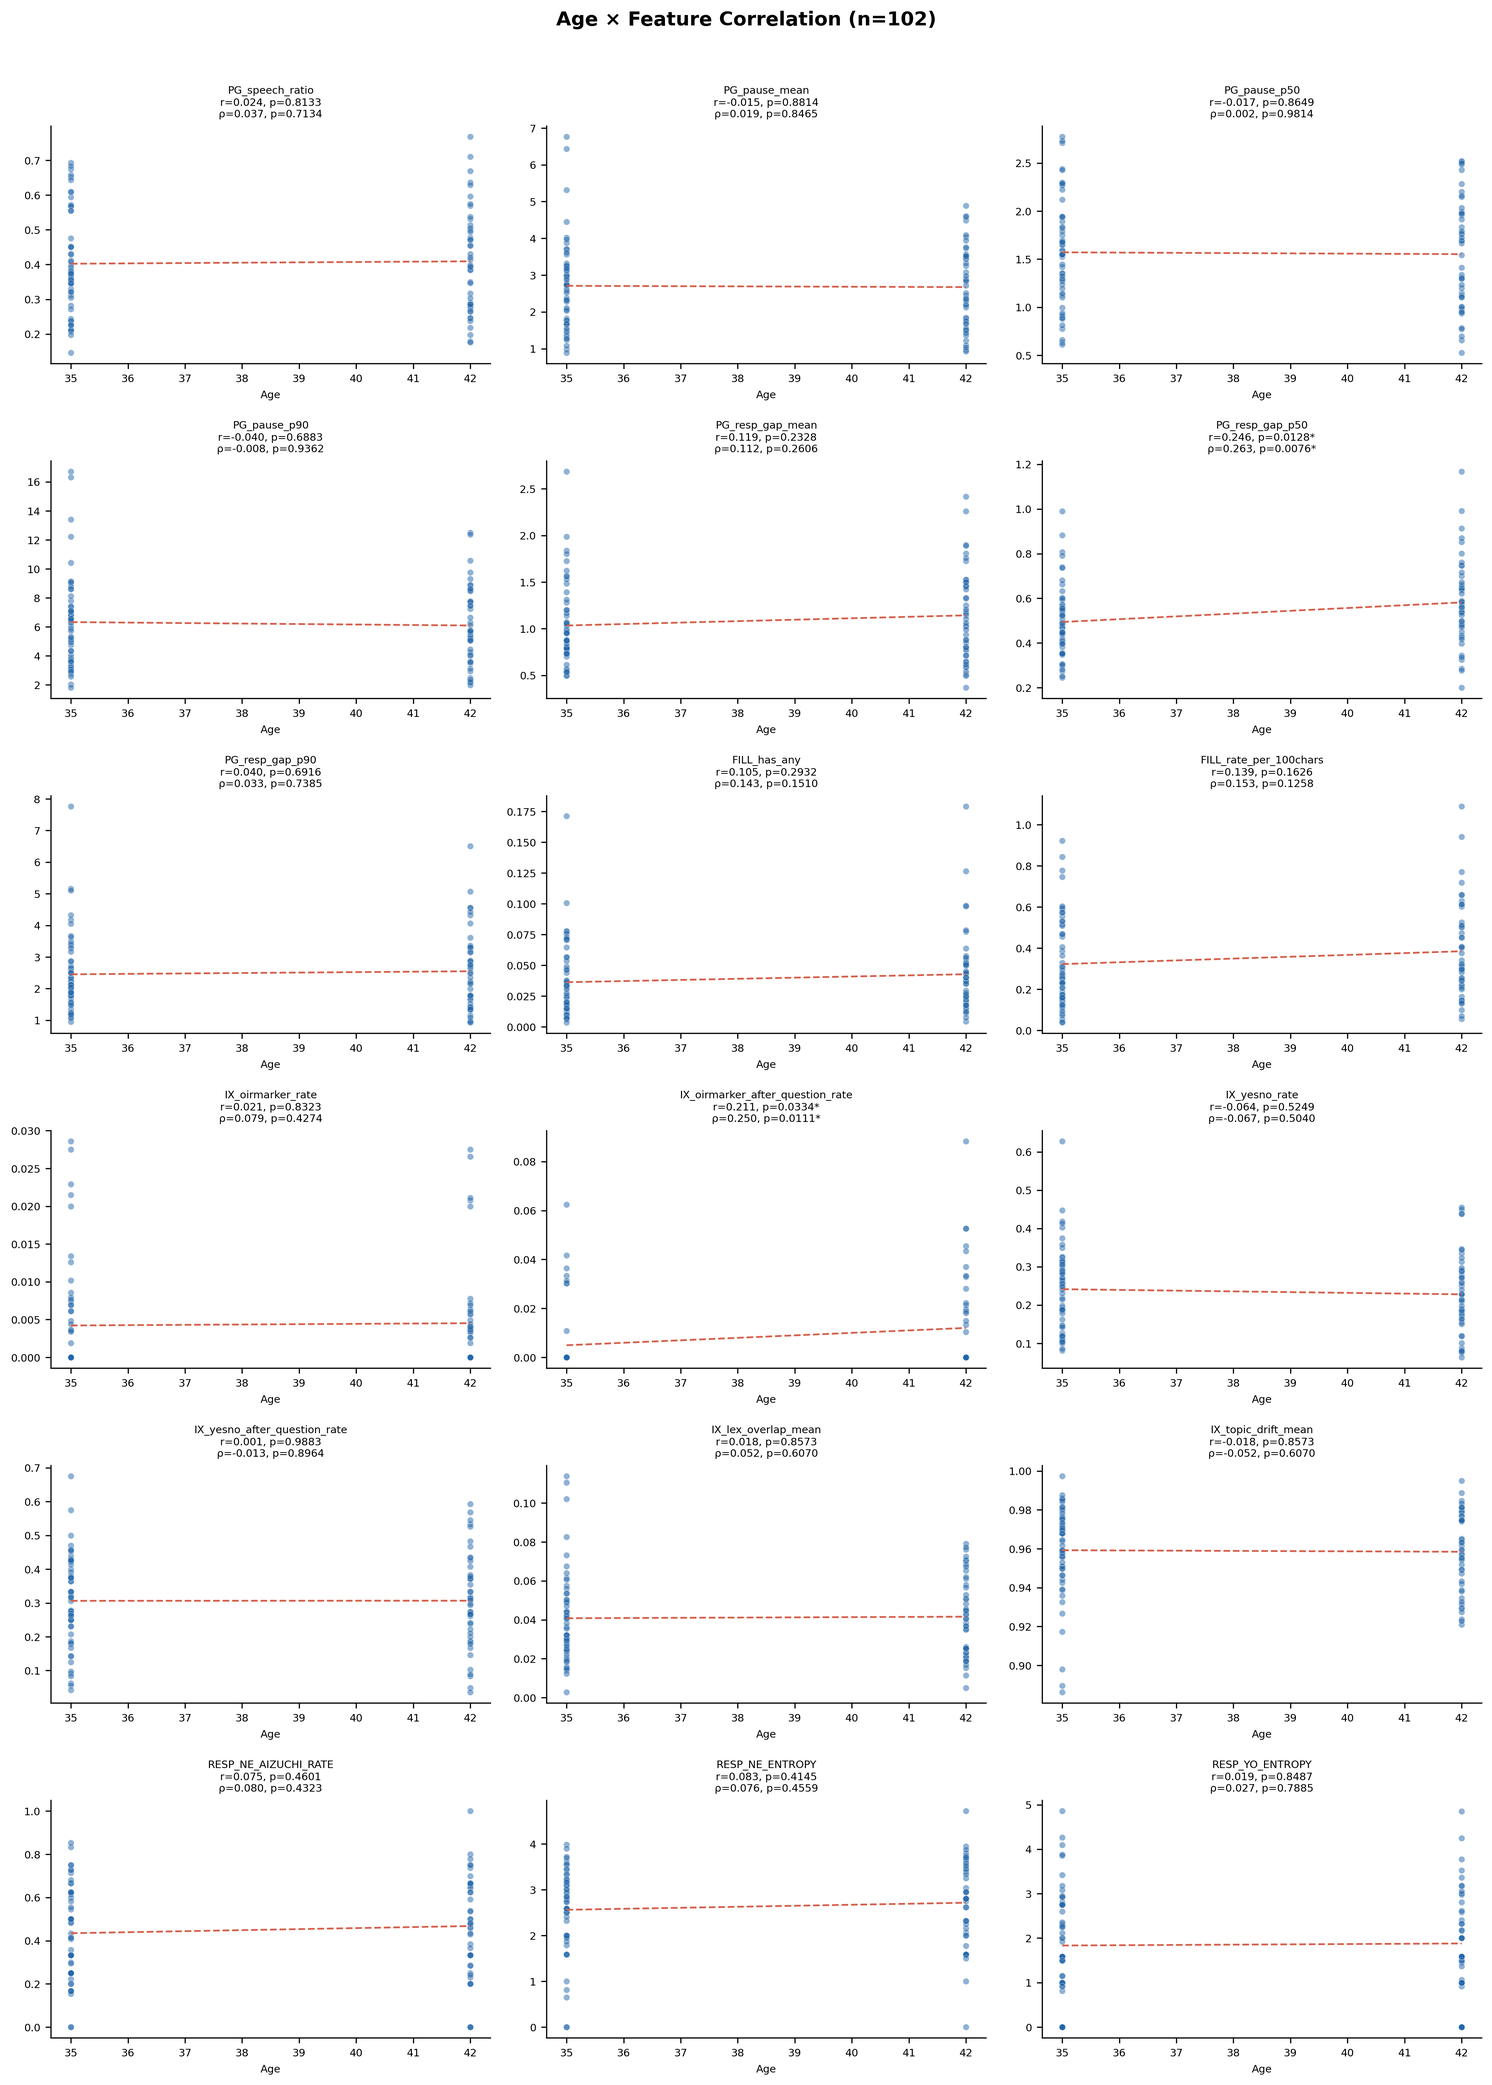
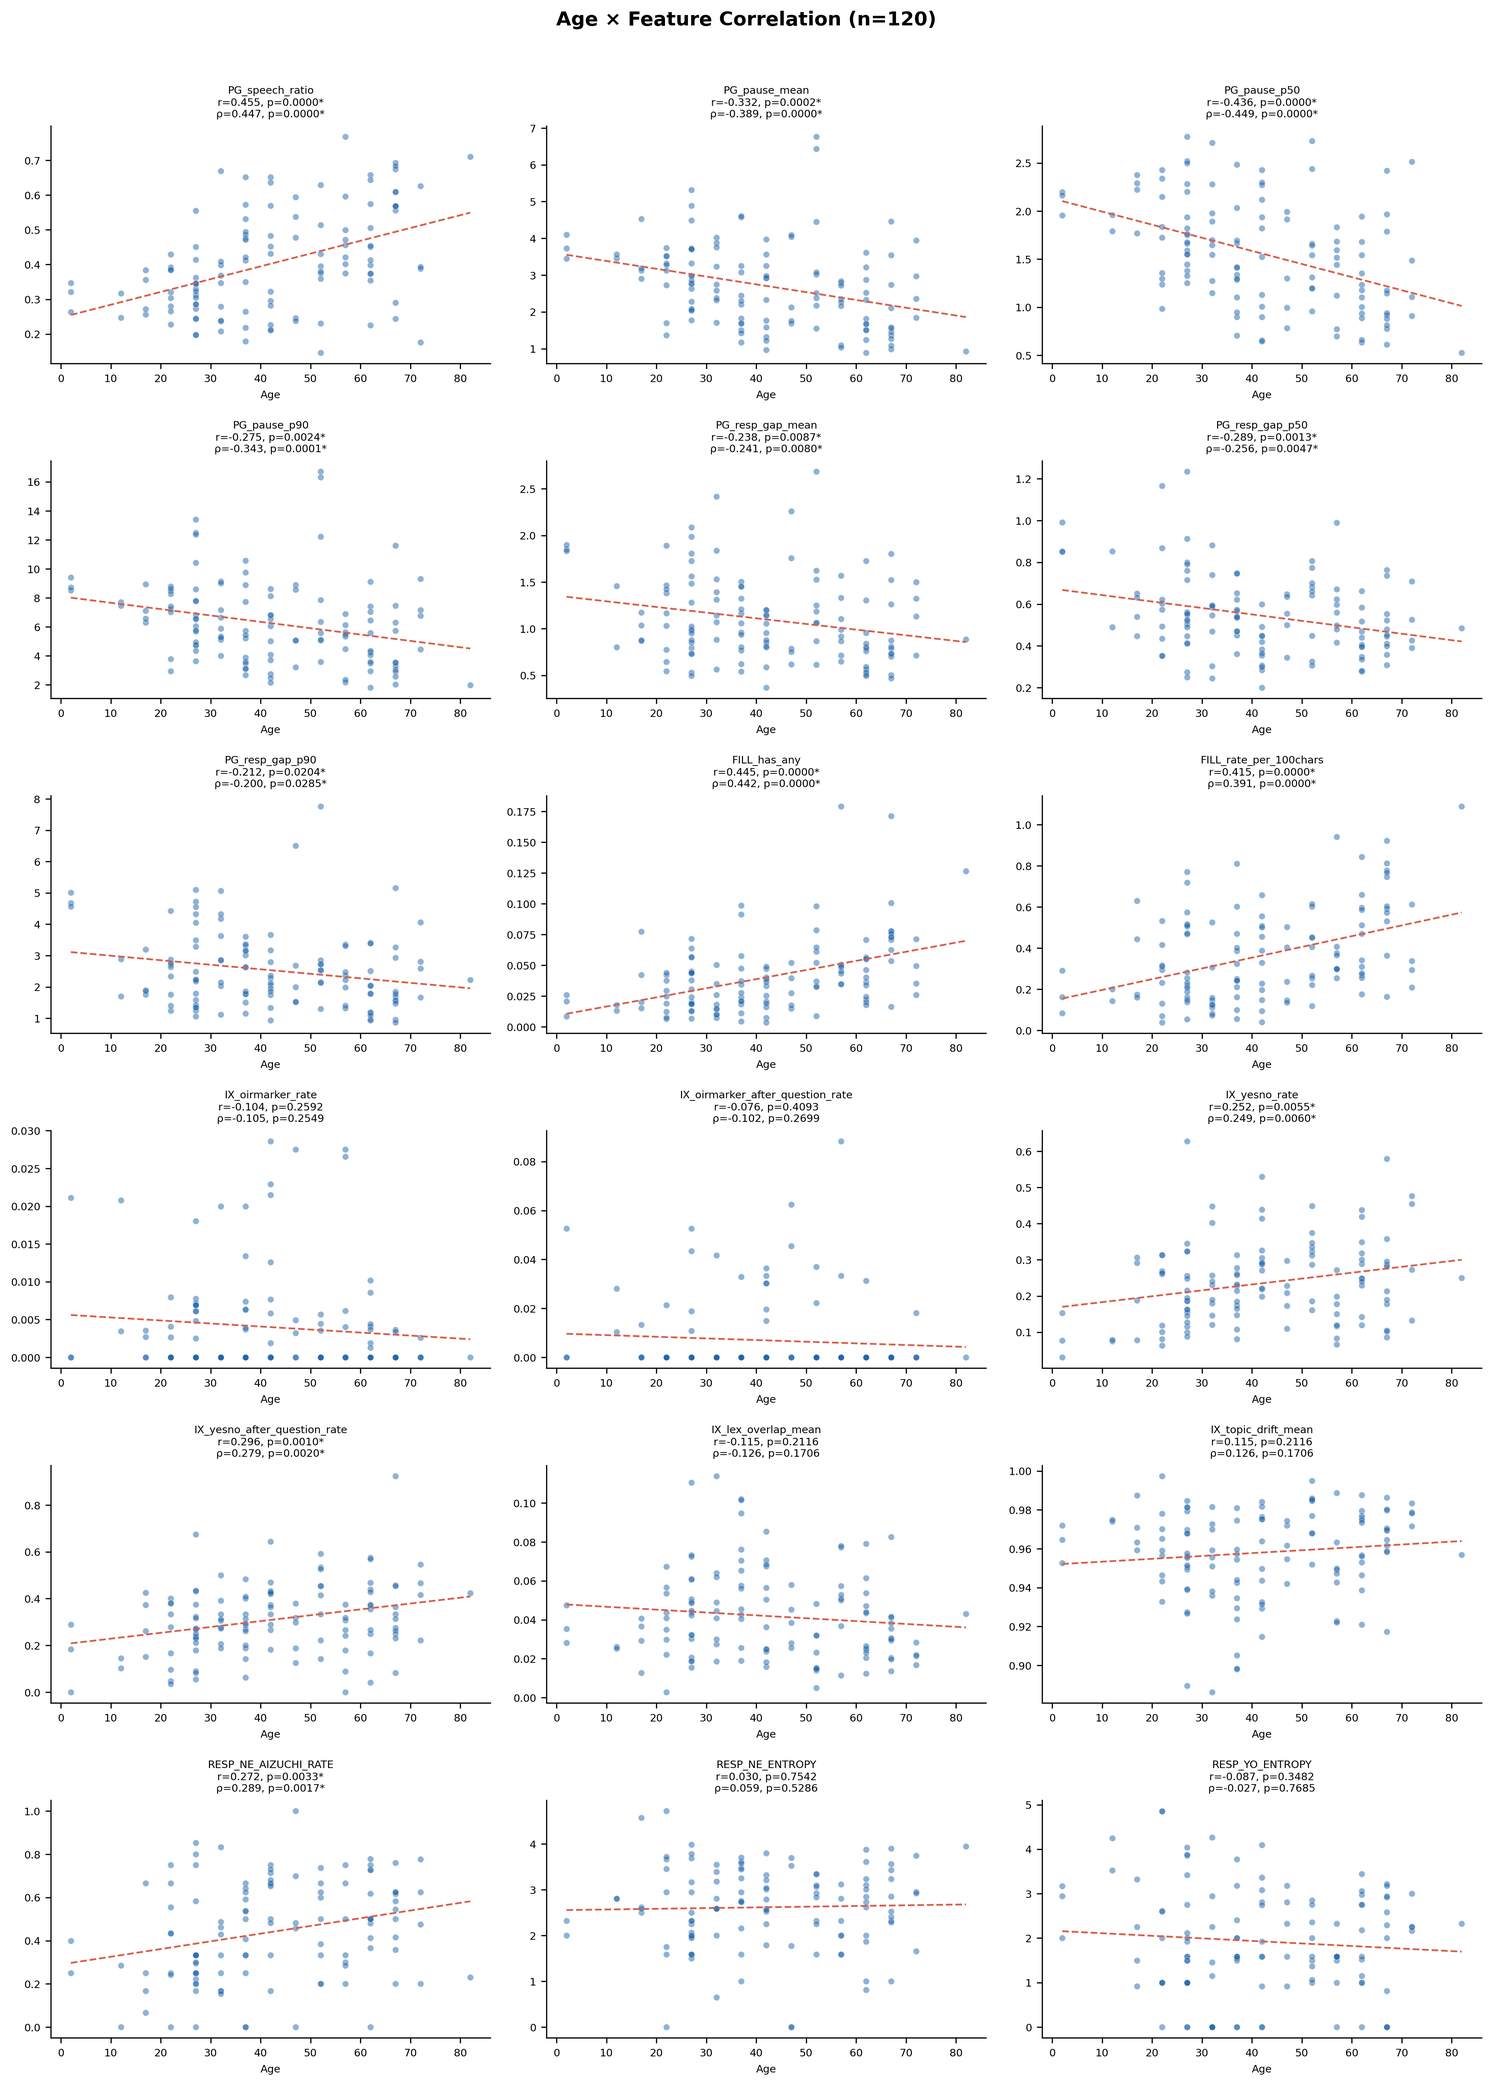
feat: CEJC話者メタデータ紐付け + メタデータ図表のマージキー修正
- scripts/cejc/build_cejc_speaker_meta.py: S3上のCEJCメタ情報
  (話者.csv + 話者・会話対応表.csv) からN=120全件の話者属性
  (性別・年齢・出身地・居住地・職業) を紐付けてTSVを生成
- scripts/paper_figs/gen_paper_figs_v2.py: メタデータマージキーを
  speaker_id単独 → (conversation_id, speaker_id) 複合キーに修正
  (旧: 120→5320行に膨張するバグ)
- reports/paper_figs_v2/: 修正後の図表を再生成
  - fig_metadata_gender.png: 性別×特徴量箱ひげ図 (7特徴量で有意差)
  - fig_metadata_age.png: 年齢×特徴量散布図 (12特徴量で有意相関)
  - tab_metadata_tests.tex: 検定結果LaTeXテーブル
- README.md: メタデータビルドスクリプト・図表の記述を追加
- docs/homework/ncnp_review_v2.md: 性別分析結果を反映、
  「性別情報利用不可」の記述を全箇所修正
- .gitignore: scripts/cejc/ をホワイトリストに追加

diff --git a/scripts/cejc/build_cejc_speaker_meta.py b/scripts/cejc/build_cejc_speaker_meta.py
@@ -1,0 +1,169 @@
+#!/usr/bin/env python3
+# -*- coding: utf-8 -*-
+"""
+CEJC話者メタデータビルダー
+
+S3上のCEJCメタ情報（話者.csv + 話者・会話対応表.csv）と
+N=120特徴量parquetを紐付けて、gen_paper_figs_v2.py の --metadata_tsv に
+渡せる形式のTSVを生成する。
+
+紐付けロジック:
+  1. 話者・会話対応表.csv: (会話ID, 話者ID, 話者ラベル)
+     話者ラベル "IC01_玲子" → prefix "IC01" を抽出
+  2. features parquet: (conversation_id, speaker_id)
+     speaker_id = "IC01" 等の会話内ラベル
+  3. JOIN: (conversation_id, speaker_id) = (会話ID, prefix) → 話者ID
+  4. 話者.csv: 話者ID → 年齢, 性別, 出身地, 居住地, 職業 等
+
+出力TSV カラム:
+  conversation_id, speaker_id, cejc_person_id, gender, age_band,
+  age_mid, birthplace, residence, occupation, relationship
+
+Usage:
+  python scripts/cejc/build_cejc_speaker_meta.py \
+    --features_parquet artifacts/analysis/features_min/features_cejc_home2_hq1.parquet \
+    --speaker_csv /tmp/cejc_speaker.csv \
+    --mapping_csv /tmp/cejc_speaker_conversation.csv \
+    --out artifacts/analysis/cejc_speaker_metadata.tsv
+"""
+
+import argparse
+import re
+import sys
+from pathlib import Path
+
+import pandas as pd
+
+
+# ---------------------------------------------------------------------------
+# 年齢バンド → 中央値 変換
+# ---------------------------------------------------------------------------
+AGE_BAND_PATTERN = re.compile(r"(\d+)-(\d+)")
+
+
+def age_band_to_midpoint(band: str) -> float | None:
+    """'40-44歳' → 42.0"""
+    if pd.isna(band):
+        return None
+    m = AGE_BAND_PATTERN.search(str(band))
+    if m:
+        return (int(m.group(1)) + int(m.group(2))) / 2.0
+    return None
+
+
+# ---------------------------------------------------------------------------
+# メイン
+# ---------------------------------------------------------------------------
+def main() -> None:
+    ap = argparse.ArgumentParser(description="CEJC話者メタデータビルダー")
+    ap.add_argument(
+        "--features_parquet",
+        required=True,
+        help="N=120 特徴量 parquet (conversation_id, speaker_id)",
+    )
+    ap.add_argument(
+        "--speaker_csv",
+        required=True,
+        help="CEJC 話者.csv (CP932)",
+    )
+    ap.add_argument(
+        "--mapping_csv",
+        required=True,
+        help="CEJC 話者・会話対応表.csv (CP932)",
+    )
+    ap.add_argument(
+        "--encoding",
+        default="cp932",
+        help="CSV encoding (default: cp932)",
+    )
+    ap.add_argument(
+        "--out",
+        required=True,
+        help="出力TSVパス",
+    )
+    args = ap.parse_args()
+
+    # --- Load ---
+    feat = pd.read_parquet(args.features_parquet)[["conversation_id", "speaker_id"]]
+    print(f"features: {len(feat)} rows", file=sys.stderr)
+
+    mapping = pd.read_csv(args.mapping_csv, encoding=args.encoding)
+    mapping["speaker_label_prefix"] = mapping["話者ラベル"].str.extract(
+        r"^([A-Z]+\d+[A-Z]?)"
+    )
+    print(f"mapping: {len(mapping)} rows", file=sys.stderr)
+
+    speaker = pd.read_csv(args.speaker_csv, encoding=args.encoding)
+    print(f"speaker: {len(speaker)} rows", file=sys.stderr)
+
+    # --- Step 1: conversation_id + speaker_id → 話者ID ---
+    merged = feat.merge(
+        mapping[["会話ID", "話者ID", "speaker_label_prefix"]],
+        left_on=["conversation_id", "speaker_id"],
+        right_on=["会話ID", "speaker_label_prefix"],
+        how="left",
+    )
+    n_unmatched_step1 = merged["話者ID"].isna().sum()
+    if n_unmatched_step1 > 0:
+        print(
+            f"WARNING: {n_unmatched_step1} rows unmatched at mapping step",
+            file=sys.stderr,
+        )
+
+    # --- Step 2: 話者ID → 属性 ---
+    merged = merged.merge(speaker, on="話者ID", how="left")
+    n_unmatched_step2 = merged["性別"].isna().sum()
+    if n_unmatched_step2 > 0:
+        print(
+            f"WARNING: {n_unmatched_step2} rows unmatched at speaker step",
+            file=sys.stderr,
+        )
+
+    # --- 整形 ---
+    merged["age_mid"] = merged["年齢"].apply(age_band_to_midpoint)
+
+    out = merged[
+        [
+            "conversation_id",
+            "speaker_id",
+            "話者ID",
+            "性別",
+            "年齢",
+            "age_mid",
+            "出身地",
+            "居住地",
+            "職業",
+            "協力者からみた関係性",
+        ]
+    ].rename(
+        columns={
+            "話者ID": "cejc_person_id",
+            "性別": "gender",
+            "年齢": "age_band",
+            "出身地": "birthplace",
+            "居住地": "residence",
+            "職業": "occupation",
+            "協力者からみた関係性": "relationship",
+        }
+    )
+
+    # gender を英語に変換（gen_paper_figs_v2.py が期待する形式）
+    out["gender"] = out["gender"].map({"女性": "F", "男性": "M"})
+
+    # age カラム追加（gen_paper_figs_v2.py が期待する形式）
+    out["age"] = out["age_mid"]
+
+    out_path = Path(args.out)
+    out_path.parent.mkdir(parents=True, exist_ok=True)
+    out.to_csv(out_path, sep="\t", index=False, encoding="utf-8")
+
+    print(f"\nwrote: {out_path}", file=sys.stderr)
+    print(f"rows: {len(out)}", file=sys.stderr)
+    print(f"gender: {out['gender'].value_counts().to_dict()}", file=sys.stderr)
+    print(f"age_mid: min={out['age_mid'].min()}, max={out['age_mid'].max()}, "
+          f"mean={out['age_mid'].mean():.1f}", file=sys.stderr)
+    print(f"birthplace missing: {out['birthplace'].isna().sum()}", file=sys.stderr)
+
+
+if __name__ == "__main__":
+    main()

diff --git a/reports/paper_figs_v2/tab_metadata_tests.tex b/reports/paper_figs_v2/tab_metadata_tests.tex
@@ -3,24 +3,24 @@
 \toprule
 Feature & $U$ & $p_{\text{gender}}$ & $r_{\text{Pearson}}$ & $p_{\text{Pearson}}$ & $\rho_{\text{Spearman}}$ & $p_{\text{Spearman}}$ \\
 \midrule
-PG\_speech\_ratio & --- & --- & 0.024 & 0.8133 & 0.037 & 0.7134 \\
-PG\_pause\_mean & --- & --- & -0.015 & 0.8814 & 0.019 & 0.8465 \\
-PG\_pause\_p50 & --- & --- & -0.017 & 0.8649 & 0.002 & 0.9814 \\
-PG\_pause\_p90 & --- & --- & -0.040 & 0.6883 & -0.008 & 0.9362 \\
-PG\_resp\_gap\_mean & --- & --- & 0.119 & 0.2328 & 0.112 & 0.2606 \\
-PG\_resp\_gap\_p50 & --- & --- & \textbf{0.246} & \textbf{0.0128*} & \textbf{0.263} & \textbf{0.0076*} \\
-PG\_resp\_gap\_p90 & --- & --- & 0.040 & 0.6916 & 0.033 & 0.7385 \\
-FILL\_has\_any & --- & --- & 0.105 & 0.2932 & 0.143 & 0.1510 \\
-FILL\_rate\_per\_100chars & --- & --- & 0.139 & 0.1626 & 0.153 & 0.1258 \\
-IX\_oirmarker\_rate & --- & --- & 0.021 & 0.8323 & 0.079 & 0.4274 \\
-IX\_oirmarker\_after\_question\_rate & --- & --- & \textbf{0.211} & \textbf{0.0334*} & \textbf{0.250} & \textbf{0.0111*} \\
-IX\_yesno\_rate & --- & --- & -0.064 & 0.5249 & -0.067 & 0.5040 \\
-IX\_yesno\_after\_question\_rate & --- & --- & 0.001 & 0.9883 & -0.013 & 0.8964 \\
-IX\_lex\_overlap\_mean & --- & --- & 0.018 & 0.8573 & 0.052 & 0.6070 \\
-IX\_topic\_drift\_mean & --- & --- & -0.018 & 0.8573 & -0.052 & 0.6070 \\
-RESP\_NE\_AIZUCHI\_RATE & --- & --- & 0.075 & 0.4601 & 0.080 & 0.4323 \\
-RESP\_NE\_ENTROPY & --- & --- & 0.083 & 0.4145 & 0.076 & 0.4559 \\
-RESP\_YO\_ENTROPY & --- & --- & 0.019 & 0.8487 & 0.027 & 0.7885 \\
+PG\_speech\_ratio & \textbf{950} & \textbf{0.0000*} & \textbf{0.455} & \textbf{0.0000*} & \textbf{0.447} & \textbf{0.0000*} \\
+PG\_pause\_mean & \textbf{2645} & \textbf{0.0000*} & \textbf{-0.332} & \textbf{0.0002*} & \textbf{-0.389} & \textbf{0.0000*} \\
+PG\_pause\_p50 & \textbf{2740} & \textbf{0.0000*} & \textbf{-0.436} & \textbf{0.0000*} & \textbf{-0.449} & \textbf{0.0000*} \\
+PG\_pause\_p90 & \textbf{2647} & \textbf{0.0000*} & \textbf{-0.275} & \textbf{0.0024*} & \textbf{-0.343} & \textbf{0.0001*} \\
+PG\_resp\_gap\_mean & 1814 & 0.8680 & \textbf{-0.238} & \textbf{0.0087*} & \textbf{-0.241} & \textbf{0.0080*} \\
+PG\_resp\_gap\_p50 & 1758 & 0.9034 & \textbf{-0.289} & \textbf{0.0013*} & \textbf{-0.256} & \textbf{0.0047*} \\
+PG\_resp\_gap\_p90 & 1812 & 0.8763 & \textbf{-0.212} & \textbf{0.0204*} & \textbf{-0.200} & \textbf{0.0285*} \\
+FILL\_has\_any & \textbf{1406} & \textbf{0.0476*} & \textbf{0.445} & \textbf{0.0000*} & \textbf{0.442} & \textbf{0.0000*} \\
+FILL\_rate\_per\_100chars & 1435 & 0.0676 & \textbf{0.415} & \textbf{0.0000*} & \textbf{0.391} & \textbf{0.0000*} \\
+IX\_oirmarker\_rate & 1650 & 0.4436 & -0.104 & 0.2592 & -0.105 & 0.2549 \\
+IX\_oirmarker\_after\_question\_rate & 1952 & 0.2091 & -0.076 & 0.4093 & -0.102 & 0.2699 \\
+IX\_yesno\_rate & 1860 & 0.6846 & \textbf{0.252} & \textbf{0.0055*} & \textbf{0.249} & \textbf{0.0060*} \\
+IX\_yesno\_after\_question\_rate & 1716 & 0.7317 & \textbf{0.296} & \textbf{0.0010*} & \textbf{0.279} & \textbf{0.0020*} \\
+IX\_lex\_overlap\_mean & \textbf{1109} & \textbf{0.0004*} & -0.115 & 0.2116 & -0.126 & 0.1706 \\
+IX\_topic\_drift\_mean & \textbf{2455} & \textbf{0.0004*} & 0.115 & 0.2116 & 0.126 & 0.1706 \\
+RESP\_NE\_AIZUCHI\_RATE & 1643 & 0.9528 & \textbf{0.272} & \textbf{0.0033*} & \textbf{0.289} & \textbf{0.0017*} \\
+RESP\_NE\_ENTROPY & 1546 & 0.6321 & 0.030 & 0.7542 & 0.059 & 0.5286 \\
+RESP\_YO\_ENTROPY & 1839 & 0.5495 & -0.087 & 0.3482 & -0.027 & 0.7685 \\
 \bottomrule
 \end{tabular}
 }

diff --git a/scripts/paper_figs/gen_paper_figs_v2.py b/scripts/paper_figs/gen_paper_figs_v2.py
@@ -975,8 +975,9 @@ def gen_metadata_gender(
         )
         return
 
-    # Merge on speaker_id
-    merged = features_df.merge(metadata_df[["speaker_id", "gender"]], on="speaker_id", how="left")
+    # Merge on (conversation_id, speaker_id) — speaker_id alone is not unique
+    merge_keys = ["conversation_id", "speaker_id"] if "conversation_id" in metadata_df.columns else ["speaker_id"]
+    merged = features_df.merge(metadata_df[merge_keys + ["gender"]], on=merge_keys, how="left")
     merged = merged.dropna(subset=["gender"])
 
     males = merged[merged["gender"] == "M"]
@@ -1076,8 +1077,9 @@ def gen_metadata_age(
         )
         return
 
-    # Merge on speaker_id
-    merged = features_df.merge(metadata_df[["speaker_id", "age"]], on="speaker_id", how="left")
+    # Merge on (conversation_id, speaker_id) — speaker_id alone is not unique
+    merge_keys = ["conversation_id", "speaker_id"] if "conversation_id" in metadata_df.columns else ["speaker_id"]
+    merged = features_df.merge(metadata_df[merge_keys + ["age"]], on=merge_keys, how="left")
     merged["age"] = pd.to_numeric(merged["age"], errors="coerce")
     merged = merged.dropna(subset=["age"])
 
@@ -1178,13 +1180,14 @@ def gen_tab_metadata_tests(
     has_gender = "gender" in metadata_df.columns
     has_age = "age" in metadata_df.columns
 
-    # Merge
-    merge_cols = ["speaker_id"]
+    # Merge on (conversation_id, speaker_id) — speaker_id alone is not unique
+    merge_keys = ["conversation_id", "speaker_id"] if "conversation_id" in metadata_df.columns else ["speaker_id"]
+    merge_cols = list(merge_keys)
     if has_gender:
         merge_cols.append("gender")
     if has_age:
         merge_cols.append("age")
-    merged = features_df.merge(metadata_df[merge_cols], on="speaker_id", how="left")
+    merged = features_df.merge(metadata_df[merge_cols], on=merge_keys, how="left")
 
     if has_age:
         merged["age"] = pd.to_numeric(merged["age"], errors="coerce")

diff --git a/README.md b/README.md
@@ -40,7 +40,8 @@ LLM仮想教師によるBig Five性格スコアとの関連を通じて指標の
 |---------|------|
 | `fig_feature_distribution.png` | 18特徴量のカテゴリ別分布 |
 | `fig_corr_heatmap_block.png` | 相関ヒートマップ（ブロック構造） |
-| `fig_metadata_age.png` | 年齢 × 特徴量の散布図 |
+| `fig_metadata_gender.png` | 性別 × 特徴量の箱ひげ図（Mann-Whitney U検定） |
+| `fig_metadata_age.png` | 年齢 × 特徴量の散布図（Pearson/Spearman相関） |
 | `fig_permutation_C_bar.png` | C の4教師 permutation test 結果 |
 | `fig_teacher_heatmap.png` | Teacher間一致度ヒートマップ |
 | `fig_bootstrap_C_radar.png` | Bootstrap Top10 レーダーチャート |
@@ -57,7 +58,7 @@ LLM仮想教師によるBig Five性格スコアとの関連を通じて指標の
 │   ├── analysis/              # 統計分析（Ridge回帰・permutation・bootstrap）
 │   ├── paper_figs/            # 論文用図表生成スクリプト
 │   ├── big5/                  # LLMによるBig5採点（Bedrock経由）
-│   ├── cejc/                  # CEJCコーパス前処理
+│   ├── cejc/                  # CEJCコーパス前処理（話者メタデータビルド含む）
 │   └── csj/                   # CSJコーパス前処理
 ├── artifacts/
 │   ├── analysis/datasets/     # 分析用データセット（parquet）
@@ -96,6 +97,12 @@ LLM仮想教師によるBig Five性格スコアとの関連を通じて指標の
 | `feature_definitions.py` | 特徴量定義の共通モジュール |
 | `gen_kamishibai_slides.py` | 紙芝居スライド生成 |
 
+### コーパス前処理（`scripts/cejc/`）
+
+| スクリプト | 用途 |
+|-----------|------|
+| `build_cejc_speaker_meta.py` | CEJC話者メタデータビルド（S3上の話者.csv + 話者・会話対応表.csv → metadata TSV） |
+
 ---
 
 ## 技術スタック
@@ -128,8 +135,16 @@ python scripts/analysis/permutation_test_ridge_fixedalpha.py
 # Bootstrap
 python scripts/analysis/bootstrap_coef_stability.py
 
-# 論文用図表生成
-python scripts/paper_figs/gen_paper_figs_v2.py
+# CEJC話者メタデータビルド（S3からCSVをダウンロード後）
+python scripts/cejc/build_cejc_speaker_meta.py \
+  --features_parquet artifacts/analysis/features_min/features_cejc_home2_hq1.parquet \
+  --speaker_csv /tmp/cejc_speaker.csv \
+  --mapping_csv /tmp/cejc_speaker_conversation.csv \
+  --out artifacts/analysis/cejc_speaker_metadata.tsv
+
+# 論文用図表生成（メタデータTSV付き）
+python scripts/paper_figs/gen_paper_figs_v2.py \
+  --metadata_tsv artifacts/analysis/cejc_speaker_metadata.tsv
 
 # 再現性検証
 python scripts/analysis/verify_reproducibility.py
